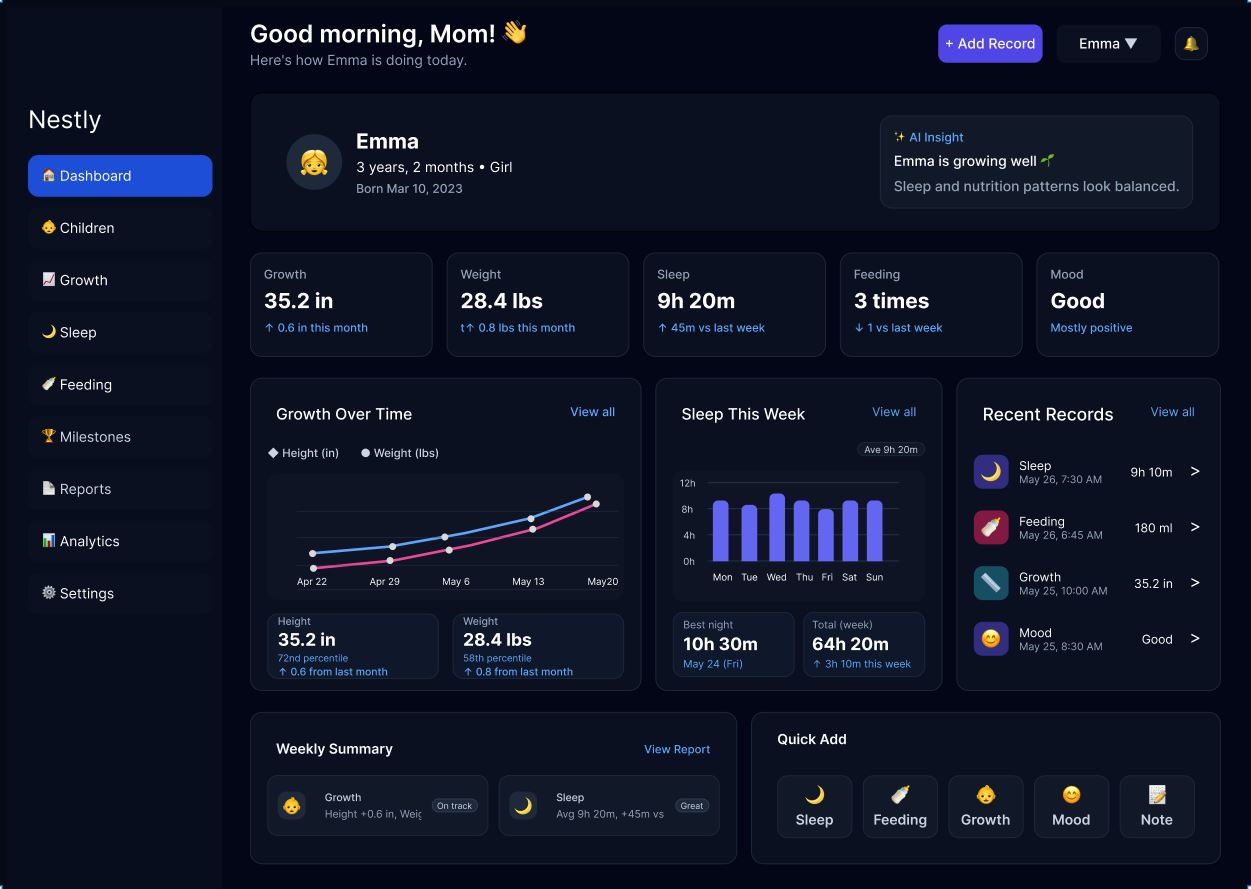
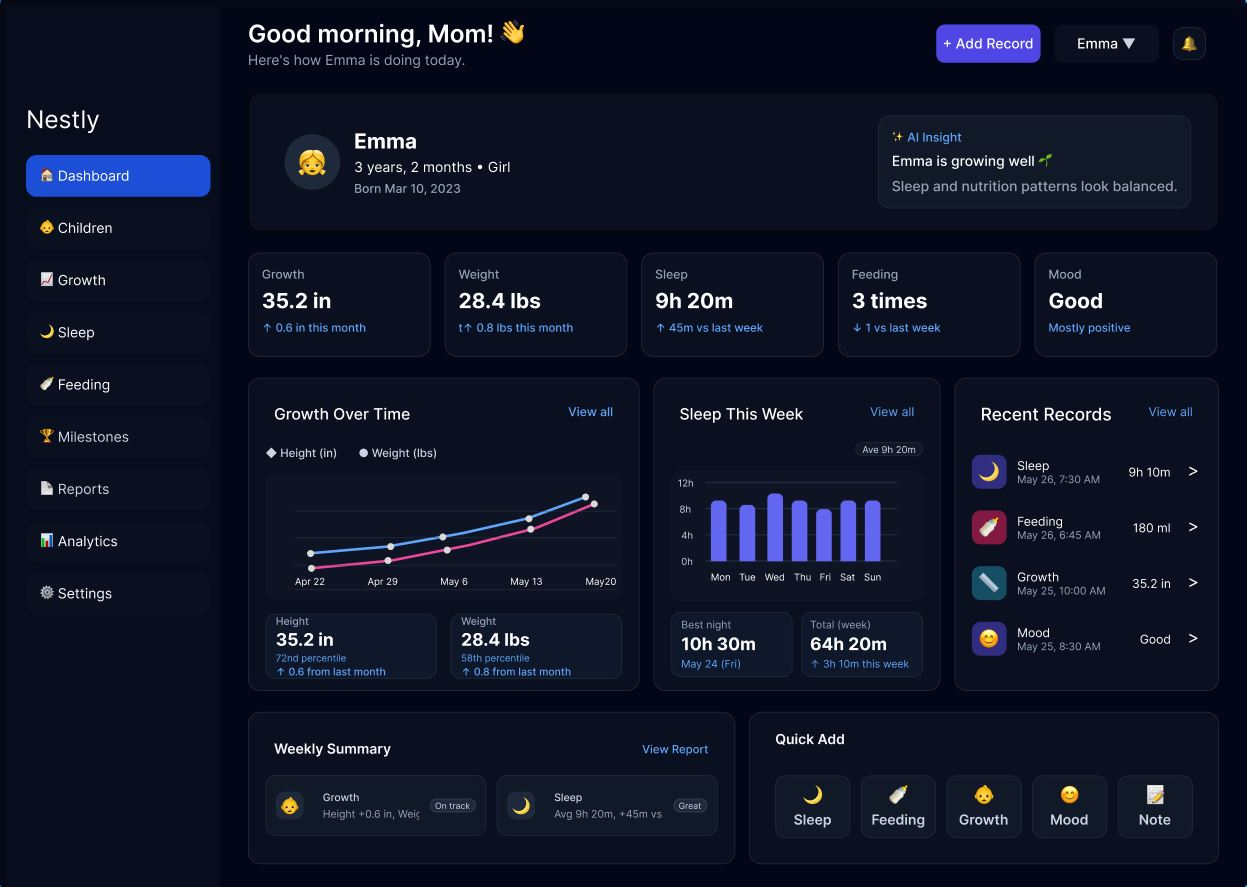
fix: update V2 dashboard screenshot path

diff --git a/README.md b/README.md
@@ -470,7 +470,7 @@ The V2 design focuses on:
 
 ## Dashboard Concept
 
-![Nestly V2 Dashboard](screenshots/nestly-v2-dashboard.jpg)
+![Nestly V2 Dashboard](screenshots/nestly-v2-dashboard.JPG)
 
 ## Architecture Planning
 